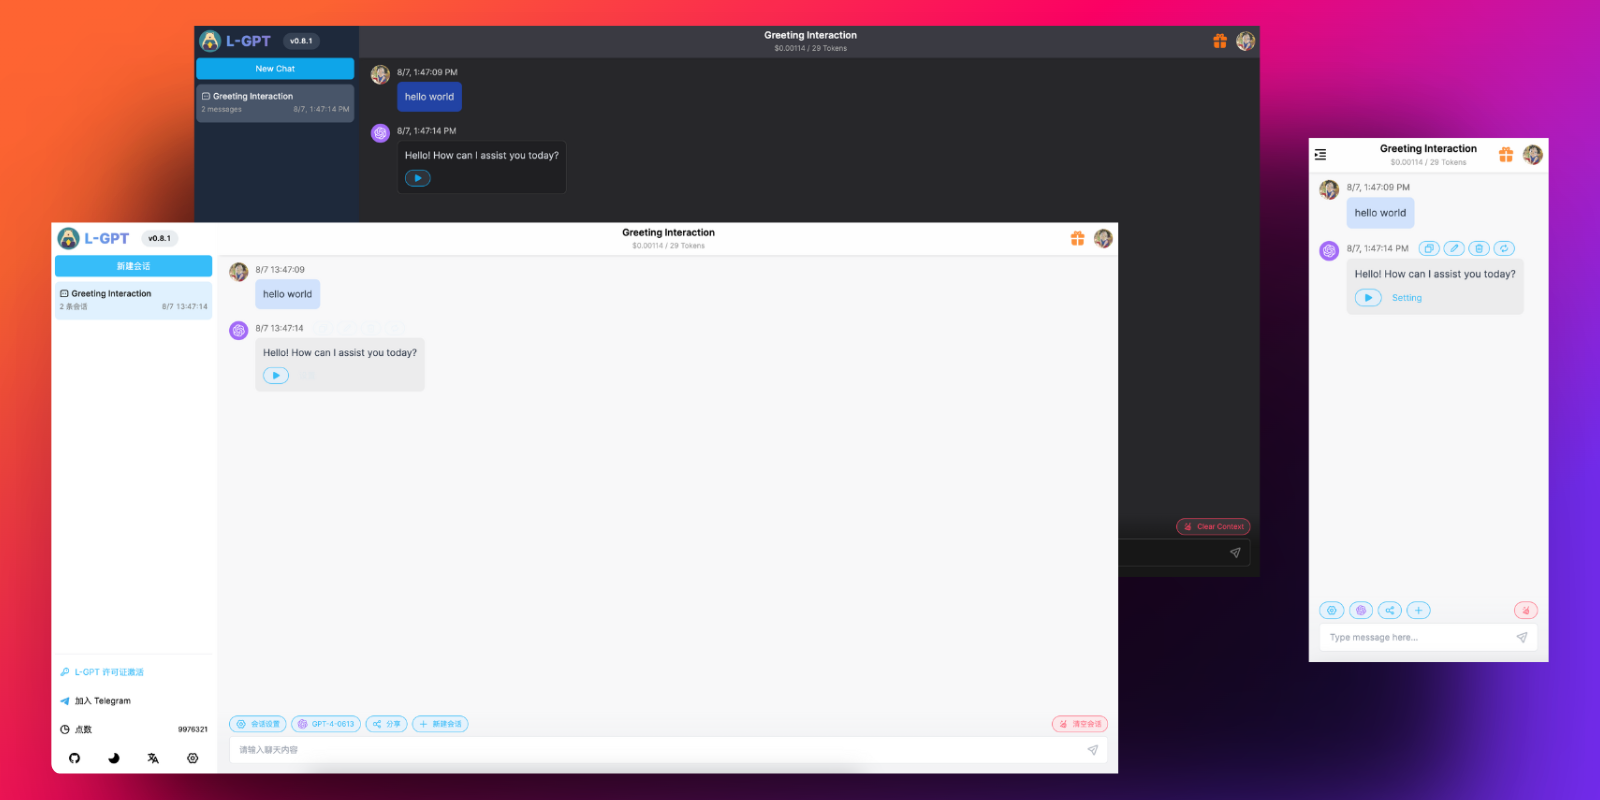
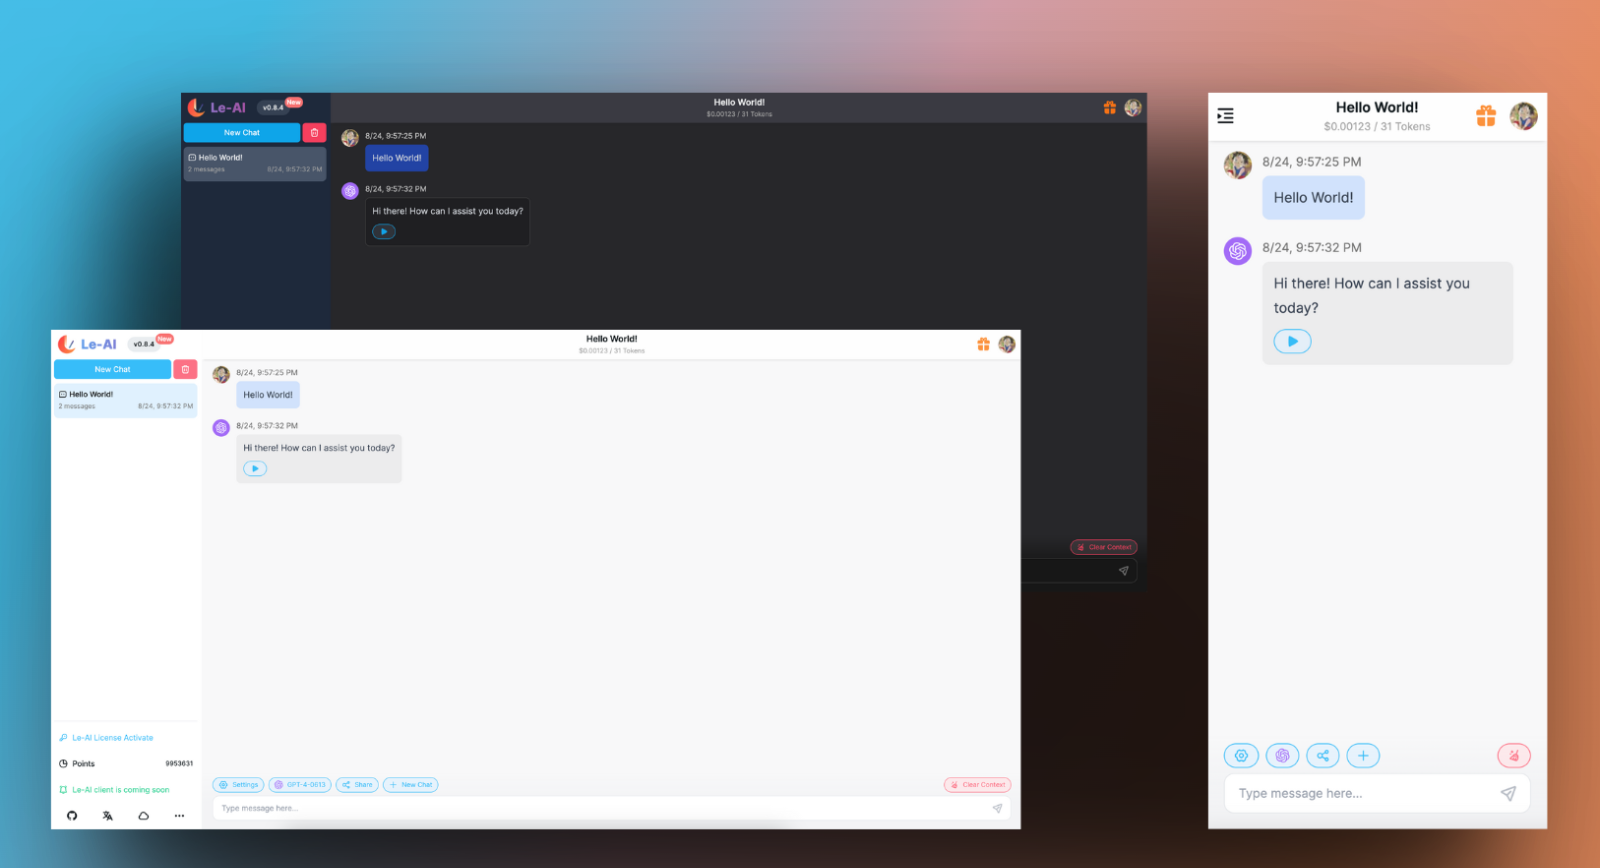
feat: Adjust the project name: L-GPT => Le-AI

diff --git a/src/app/layout.tsx b/src/app/layout.tsx
@@ -3,9 +3,9 @@ import type { Metadata } from "next";
 import "@/styles/globals.css";
 
 export const metadata: Metadata = {
-  title: "L-GPT",
+  title: "Le-AI",
   description:
-    "L-GPT is an open-source project that helps you improve your learning, work, and life efficiency by providing various AI models.",
+    "Le-AI is an open-source project that helps you improve your learning, work, and life efficiency by providing various AI models.",
   icons: {
     icon: [
       {
@@ -43,34 +43,34 @@ export const metadata: Metadata = {
     maximumScale: 1,
     userScalable: false,
   },
-  appleWebApp: { capable: true, title: "L-GPT" },
+  appleWebApp: { capable: true, title: "Le-AI" },
   openGraph: {
-    title: "L-GPT | An AI Assitant Hub",
+    title: "Le-AI | An AI Assitant Hub",
     description:
-      "L-GPT is an open-source project that helps you improve your learning, work, and life efficiency by providing various AI models.",
-    url: "https://chat.ltopx.com",
-    siteName: "L-GPT",
+      "Le-AI is an open-source project that helps you improve your learning, work, and life efficiency by providing various AI models.",
+    url: "https://le-ai.app",
+    siteName: "Le-AI",
     locale: "zh_CN",
     type: "website",
     images: {
-      url: "https://chat.ltopx.com/opengraph-image.png?v=1",
+      url: "https://le-ai.app/opengraph-image.png?v=2",
       width: 1200,
       height: 675,
-      alt: "L-GPT",
+      alt: "Le-AI",
     },
   },
   twitter: {
     card: "summary_large_image",
-    title: "L-GPT | An AI Assitant Hub",
+    title: "Le-AI | An AI Assitant Hub",
     description:
-      "L-GPT is an open-source project that helps you improve your learning, work, and life efficiency by providing various AI models.",
+      "Le-AI is an open-source project that helps you improve your learning, work, and life efficiency by providing various AI models.",
     site: "@peekbomb",
     creator: "@peekbomb",
     images: {
-      url: "https://chat.ltopx.com/twitter-image.png?v=1",
+      url: "https://le-ai.app/twitter-image.png?v=2",
       width: 1200,
       height: 675,
-      alt: "L-GPT",
+      alt: "Le-AI",
     },
   },
 };

diff --git a/src/components/premium/index.tsx b/src/components/premium/index.tsx
@@ -22,7 +22,7 @@ export default function Premium() {
         <div className="border rounded-md max-h-[calc(100vh-400px)] p-4 box-border overflow-y-auto relative dark:border-neutral-200/40">
           <div>
             <div className="flex font-semibold text-2xl gap-2">
-              <span>L-GPT</span>
+              <span>Le-AI</span>
               <span>{tPremium("free")}</span>
             </div>
             <div className="flex flex-col mt-2 text-sm gap-2">
@@ -88,7 +88,7 @@ export default function Premium() {
         >
           <div>
             <div className="flex font-semibold text-2xl gap-2">
-              <span className="dark:text-neutral-600">L-GPT</span>
+              <span className="dark:text-neutral-600">Le-AI</span>
               <span className="bg-clip-text bg-license-premium text-transparent">
                 {tPremium("premium")}
               </span>
@@ -186,7 +186,7 @@ export default function Premium() {
         >
           <div>
             <div className="flex font-semibold text-2xl gap-2">
-              <span className="dark:text-neutral-600">L-GPT</span>
+              <span className="dark:text-neutral-600">Le-AI</span>
               <span className="bg-clip-text bg-license-team text-transparent">
                 {tPremium("team")}
               </span>

diff --git a/src/email/email.tsx b/src/email/email.tsx
@@ -32,10 +32,10 @@ export default function Email(props: any) {
               />
             </Section>
             <Heading className="text-black text-2xl font-normal text-center p-0 my-8 mx-0">
-              Sign in to <strong>L-GPT</strong>
+              Sign in to <strong>Le-AI</strong>
             </Heading>
             <Text className="text-black text-sm leading-[24px]">
-              Hello, you are sign in to <strong>L-GPT</strong>. Click the button
+              Hello, you are sign in to <strong>Le-AI</strong>. Click the button
               below to sign in.
             </Text>
             <Section className="text-center my-[32px]">
@@ -51,7 +51,7 @@ export default function Email(props: any) {
             <Hr className="border border-solid border-[#eaeaea] my-[26px] mx-0 w-full" />
             <Text className="text-[#666666] text-xs leading-[24px]">
               This email was intended for sign in to{" "}
-              <span className="text-black">L-GPT</span>. If you did not request
+              <span className="text-black">Le-AI</span>. If you did not request
               this email, you can ignore it. If you are concerned about your
               account's safety, please reply to this email to get in touch with
               us.

diff --git a/src/components/chargeToken/index.tsx b/src/components/chargeToken/index.tsx
@@ -23,7 +23,7 @@ export default function ChargeToken() {
         <div className="border rounded-md max-h-[calc(100vh-400px)] p-4 box-border overflow-y-auto relative dark:border-neutral-200/40">
           <div>
             <div className="flex font-semibold text-2xl gap-2">
-              <span className="dark:text-neutral-300">L-GPT Points 1</span>
+              <span className="dark:text-neutral-300">Le-AI Points 1</span>
             </div>
             <div>
               <span className="bg-clip-text bg-license-premium font-semibold text-transparent text-3xl">
@@ -72,7 +72,7 @@ export default function ChargeToken() {
         <div className="border rounded-md max-h-[calc(100vh-400px)] p-4 box-border overflow-y-auto relative dark:border-neutral-200/40">
           <div>
             <div className="flex font-semibold text-2xl gap-2">
-              <span className="dark:text-neutral-300">L-GPT Points 2</span>
+              <span className="dark:text-neutral-300">Le-AI Points 2</span>
             </div>
             <div>
               <span className="bg-clip-text bg-license-premium font-semibold text-transparent text-3xl">

diff --git a/src/email/index.tsx b/src/email/index.tsx
@@ -12,7 +12,7 @@ export async function sendVerificationRequest(
   const result = await transport.sendMail({
     to: identifier,
     from: provider.from,
-    subject: `Sign in to L-GPT`,
+    subject: `Sign in to Le-AI`,
     text: text({ url, host }),
     html: render(<Email url={url} />),
   });
@@ -24,5 +24,5 @@ export async function sendVerificationRequest(
 
 /** Email Text body (fallback for email clients that don't render HTML, e.g. feature phones) */
 function text({ url, host }: { url: string; host: string }) {
-  return `Sign in to L-GPT ${host}\n${url}\n\n`;
+  return `Sign in to Le-AI ${host}\n${url}\n\n`;
 }

diff --git a/src/components/site/welcome.tsx b/src/components/site/welcome.tsx
@@ -34,7 +34,7 @@ export default function Welcome() {
         <div className="font-bold text-4xl">{tWelcome("welcome")}</div>
         <div className="font-black my-3 text-transparent text-4xl">
           <span className="bg-clip-text bg-gradient-to-r from-indigo-500 from-10% via-sky-500 via-30% to-emerald-500 to-90%">
-            L - GPT
+            Le - AI
           </span>
         </div>
         <div className="text-lg mb-3">{tWelcome("desc")}</div>

diff --git a/src/components/menu/mobile/handler/index.tsx b/src/components/menu/mobile/handler/index.tsx
@@ -33,7 +33,7 @@ export default function Handler() {
       <div className="flex h-[43px] items-center justify-center">
         <div className="flex flex-1 justify-center">
           <a
-            href="https://github.com/Peek-A-Booo/L-GPT"
+            href="https://github.com/Peek-A-Booo/Le-AI"
             target="_blank"
             className={cn(
               "w-8 h-8 flex justify-center items-center cursor-pointer transition-colors rounded-md",

diff --git a/src/components/menu/pc/handler/github.tsx b/src/components/menu/pc/handler/github.tsx
@@ -6,7 +6,7 @@ export default function Github() {
   return (
     <div className="flex flex-1 justify-center">
       <a
-        href="https://github.com/Peek-A-Booo/L-GPT"
+        href="https://github.com/Peek-A-Booo/Le-AI"
         target="_blank"
         className={cn(
           "w-8 h-8 flex justify-center items-center cursor-pointer transition-colors rounded-md",

diff --git a/src/app/api/openRouter/regular.ts b/src/app/api/openRouter/regular.ts
@@ -25,8 +25,8 @@ const fetchOpenRouter = async ({
     headers: {
       "Content-Type": "application/json",
       Authorization: `Bearer ${Authorization}`,
-      "HTTP-Referer": "https://chat.ltopx.com",
-      "X-Title": "L-GPT",
+      "HTTP-Referer": "https://le-ai.app",
+      "X-Title": "Le-AI",
     },
     method: "POST",
     body: JSON.stringify({

diff --git a/src/components/premium/activate.tsx b/src/components/premium/activate.tsx
@@ -41,7 +41,7 @@ const Activate = React.forwardRef((_, forwardedRef) => {
       return inputRef.current?.focus();
     }
 
-    const params = { license_key: licenseKey, instance_name: "L-GPT" };
+    const params = { license_key: licenseKey, instance_name: "Le-AI" };
     setLoading(true);
     fetch("/api/licenses/activate", {
       method: "POST",

diff --git a/src/components/premium/button.tsx b/src/components/premium/button.tsx
@@ -76,7 +76,7 @@ export default function PremiumBtn(props: PremiumBtnProps) {
         >
           {license_type === "premium"
             ? tPremium("premium-already")
-            : `${tPremium("buy")} L-GPT ${tPremium("premium")}`}
+            : `${tPremium("buy")} Le-AI ${tPremium("premium")}`}
         </Button>
       </div>
     );

diff --git a/src/components/share/action.tsx b/src/components/share/action.tsx
@@ -95,7 +95,7 @@ const Action = React.forwardRef((_, forwardedRef) => {
       const baseURL =
         process.env.NODE_ENV === "development"
           ? "http://localhost:3000"
-          : "https://chat.ltopx.com";
+          : "https://le-ai.app";
       setShareLink(`${baseURL}/share/${id}`);
       setOpen(true);
     },
